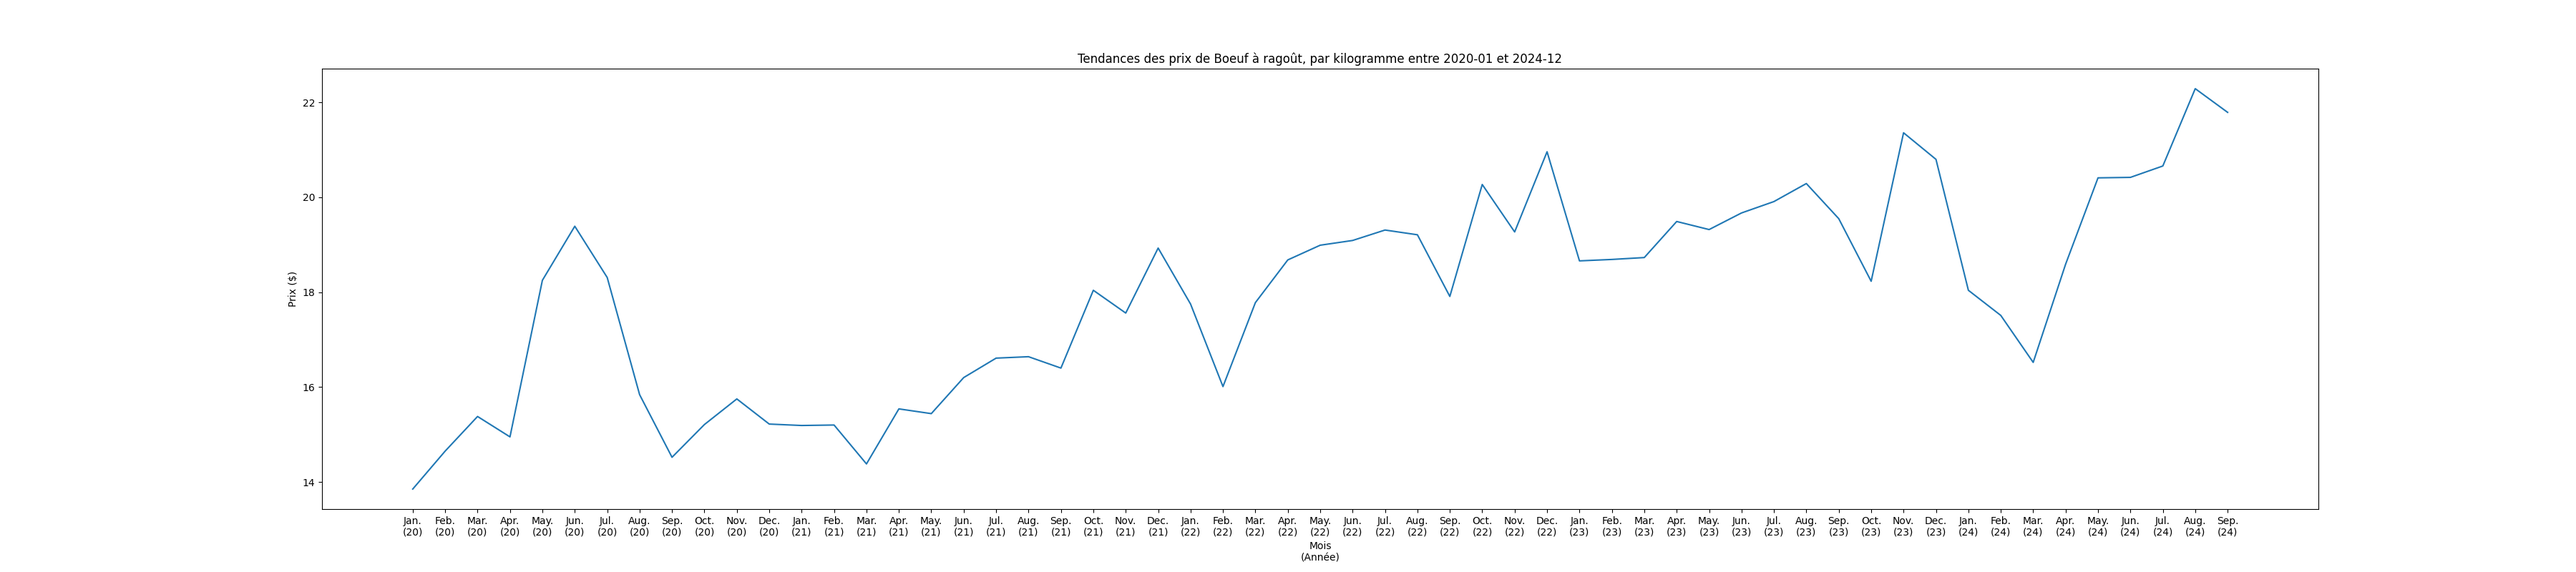
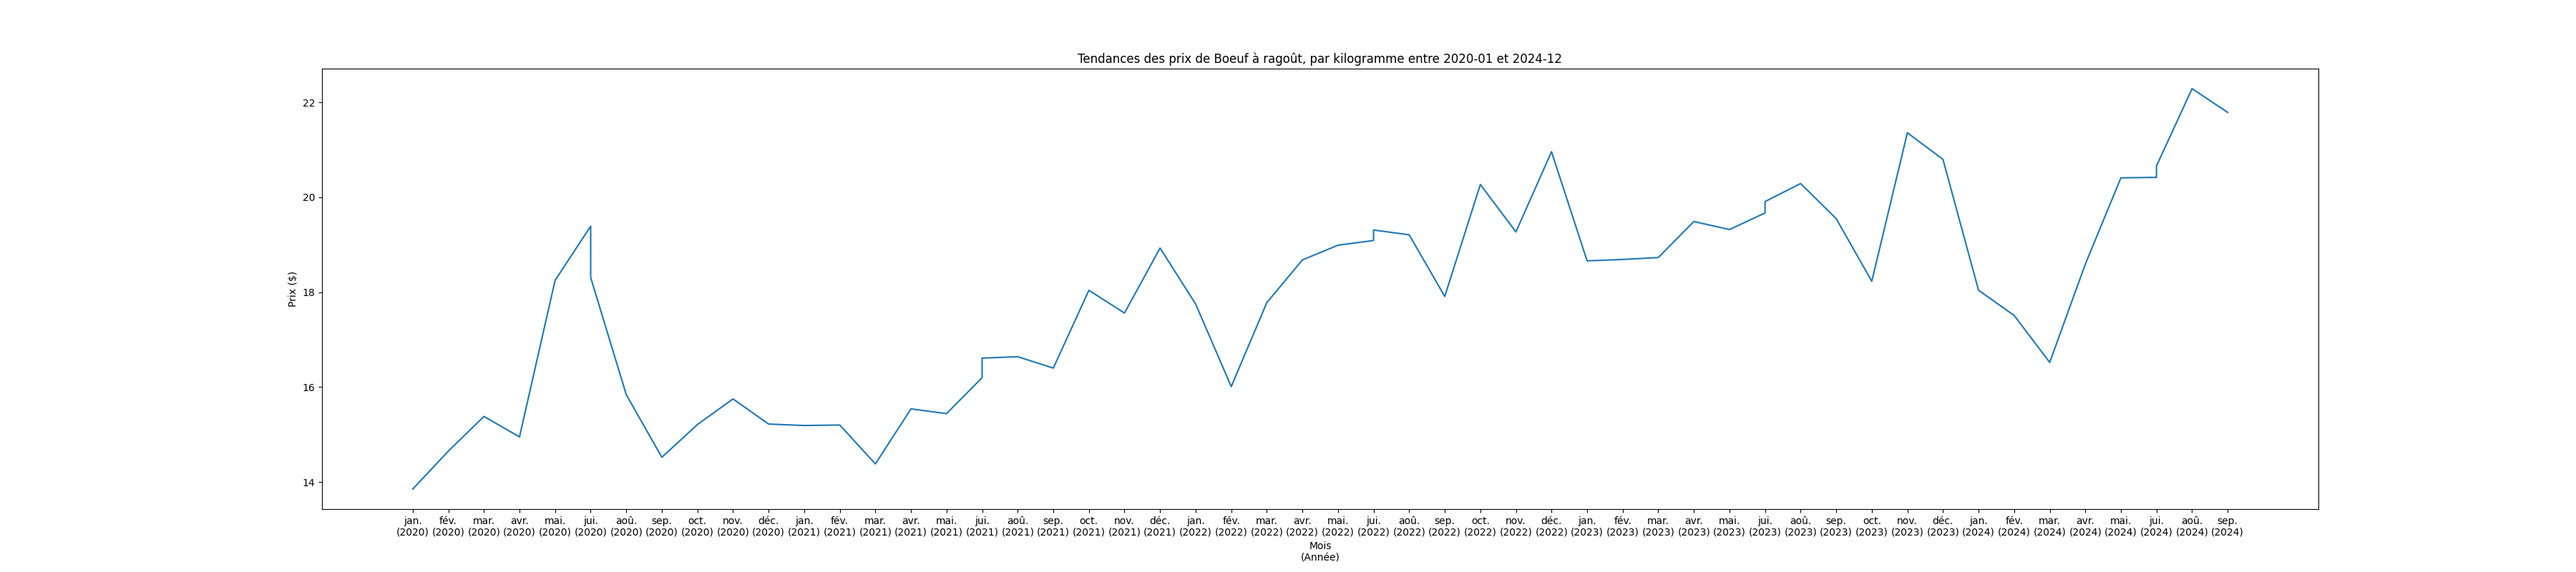
use french x labels

diff --git a/src/analysis/visulizations.py b/src/analysis/visulizations.py
@@ -4,6 +4,7 @@ import numpy as np
 import sys
 import math
 import datetime
+from babel.dates import format_date
 from correlation import linear_regression_slope, linear_regression_origin
 
 sys.path.append("src/tests")
@@ -34,8 +35,8 @@ def price_trends(product_name, start_date: str, end_date: str, figsize: tuple = 
     filtered_data = [row for row in data if row["product"] == product_name and is_valid_date(row["date"], start_date, end_date)]
 
     prices = [row["price"] for row in filtered_data]
-    xPoints = [datetime.datetime.strptime(row["date"], "%Y-%m").strftime("%b.\n(%y)") for row in filtered_data]
-    
+    xPoints = [f"{format_date(datetime.datetime.strptime(row['date'], '%Y-%m'), 'MMMM', locale='fr')[:3]}.\n({row['date'][:4]})" for row in filtered_data]
+
     plt.plot(xPoints, prices)
     plt.title(f"Tendances des prix de {product_name} entre {start_date} et {end_date}", fontsize=12)
     plt.xlabel("Mois\n(Année)")
@@ -73,3 +74,7 @@ if __name__ == "__main__":
     # Consummer price index for june 2020 supports these observations
     price_trends("Boeuf à ragoût, par kilogramme", "2020-01", "2024-12")
     price_trends("Poulet entier, par kilogramme", "2020-04", "2020-06", figsize=(12, 4))
+    
+
+    price_trends("Pommes, par kilogramme", "2020-01", "2024-12")
+    price_trends("Bananes, par kilogramme", "2020-01", "2024-12")
